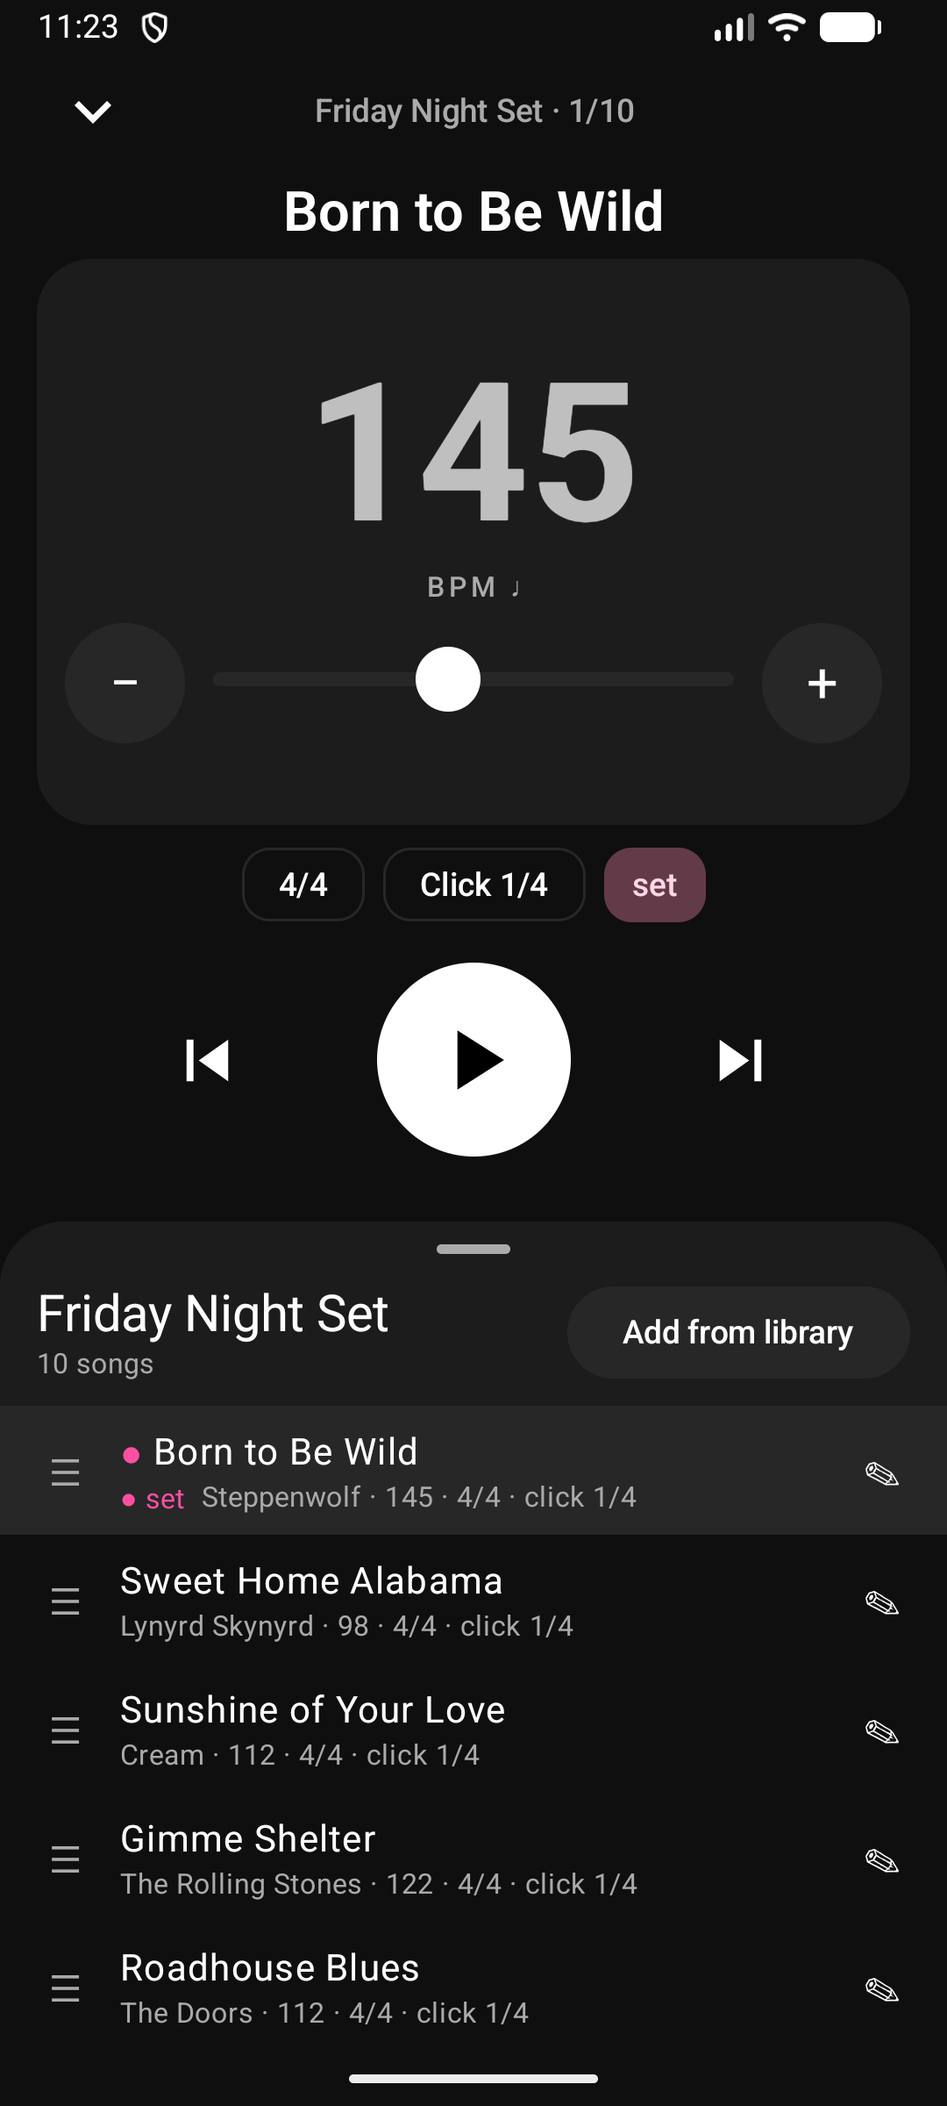
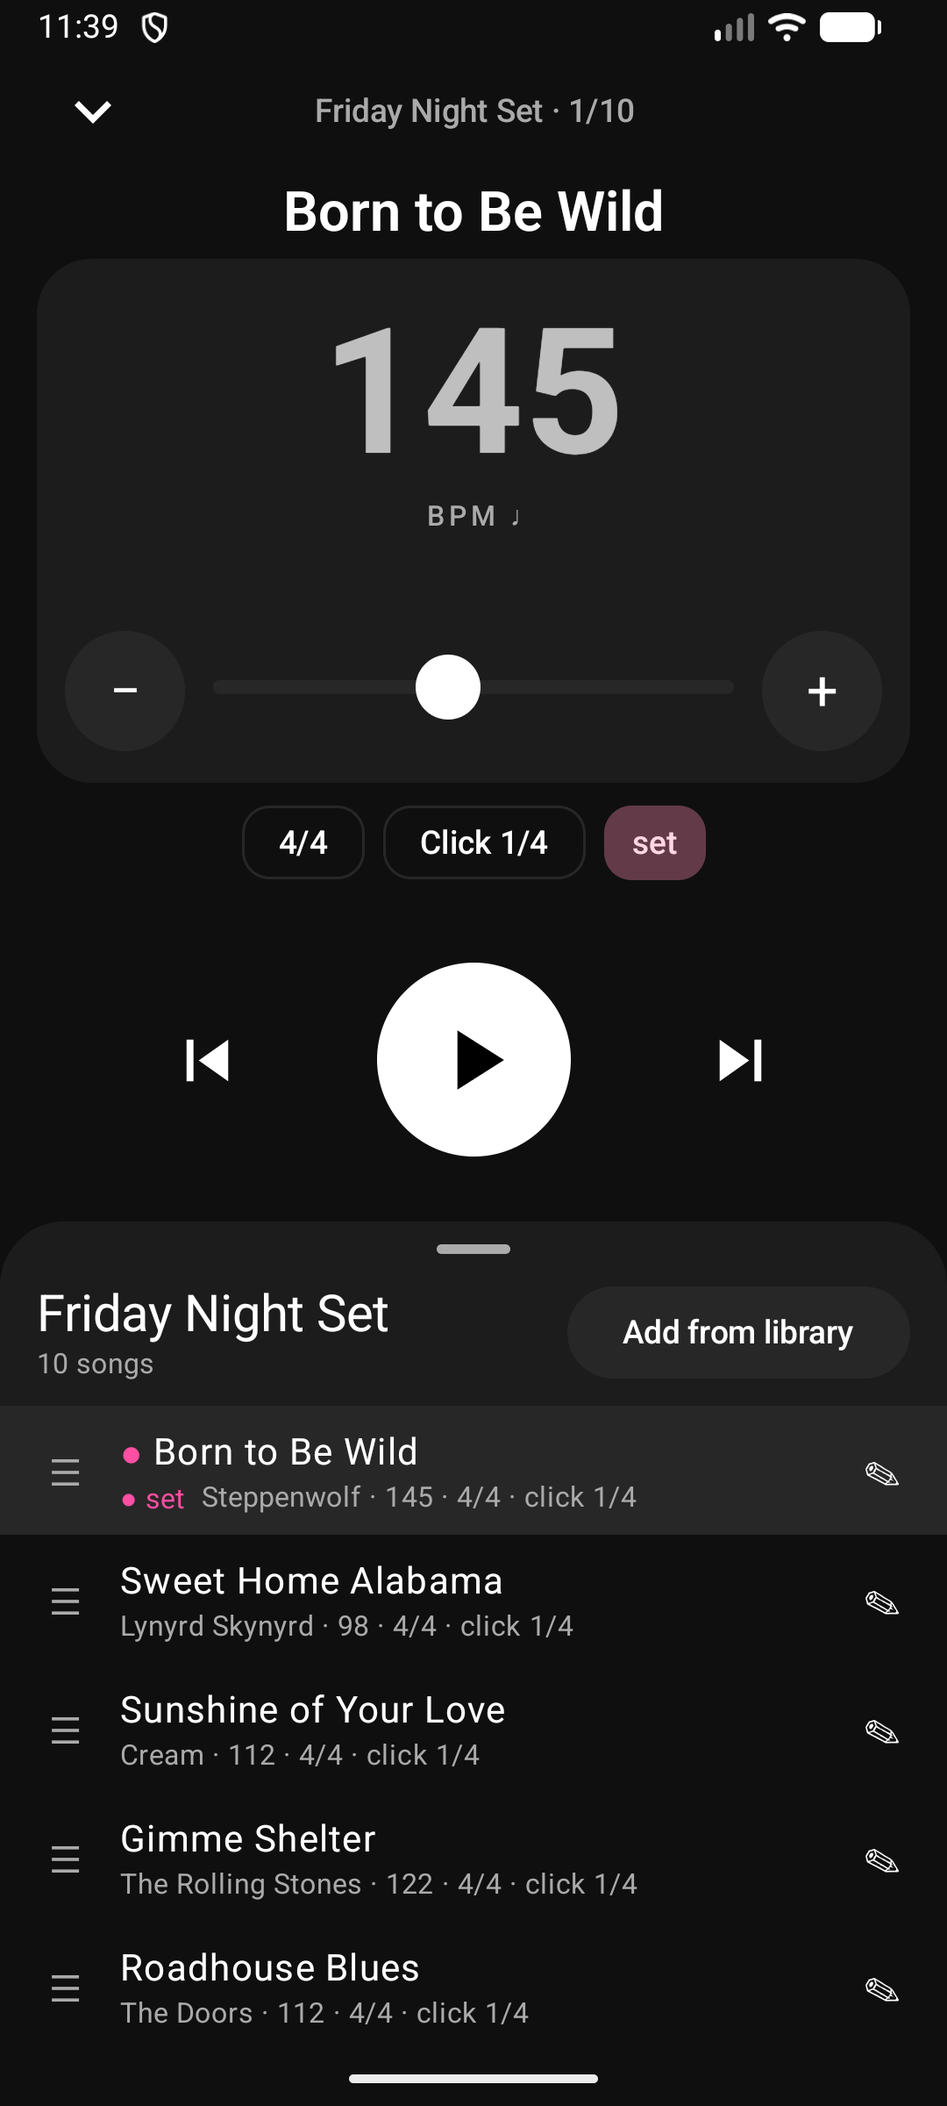
fix(player): never grow the tempo card while the queue opens
The compact layout used to flip at the halfway point, which freed space just as
the sheet was taking it, so the tempo card briefly expanded mid-drag. Everything
is now driven continuously by the sheet position: the tempo card is capped at its
natural size and only shrinks when there is less room, the paddings shrink with
the drag, and the artist and notes slide up behind the title during the first
half of the movement.

diff --git a/app/src/main/java/me/jhot/jtmpo/ui/player/PlayerScreen.kt b/app/src/main/java/me/jhot/jtmpo/ui/player/PlayerScreen.kt
@@ -21,11 +21,9 @@ import androidx.compose.foundation.rememberScrollState
 import androidx.compose.foundation.shape.CircleShape
 import androidx.compose.foundation.verticalScroll
 import androidx.activity.compose.BackHandler
-import androidx.compose.animation.core.animateDpAsState
 import androidx.compose.foundation.layout.BoxWithConstraints
 import androidx.compose.ui.draw.clipToBounds
 import androidx.compose.foundation.lazy.rememberLazyListState
-import androidx.compose.animation.AnimatedVisibility
 import androidx.compose.foundation.ExperimentalFoundationApi
 import androidx.compose.foundation.gestures.AnchoredDraggableDefaults
 import androidx.compose.foundation.gestures.AnchoredDraggableState
@@ -40,6 +38,10 @@ import androidx.compose.ui.input.nestedscroll.NestedScrollSource
 import androidx.compose.ui.input.nestedscroll.nestedScroll
 import androidx.compose.ui.layout.layout
 import androidx.compose.ui.unit.Constraints
+import androidx.compose.ui.unit.Dp
+import androidx.compose.ui.unit.lerp
+import androidx.compose.ui.unit.offset
+import me.jhot.jtmpo.ui.components.TempoCardMinHeight
 import androidx.compose.ui.unit.IntOffset
 import androidx.compose.ui.unit.Velocity
 import kotlin.math.roundToInt
@@ -127,8 +129,6 @@ private fun PlayerContent(
     val headerDp = if (headerPx > 0) with(density) { headerPx.toDp() } else 72.dp
     val rowDp = if (rowPx > 0) with(density) { rowPx.toDp() } else 56.dp
     val peek = queuePeekHeight(QueueHandleHeight, headerDp, rowDp, entries.size)
-    // True from the moment a drag or tap is heading for half or full: the player compacts while the sheet opens.
-    val queueShown = sheet.targetValue != QueueStop.Collapsed
     BackHandler(enabled = sheet.currentValue != QueueStop.Collapsed) { scope.launch { sheet.animateTo(QueueStop.Collapsed) } }
     // At the half stop the playing song must be on screen. Keyed on the settled stop and the current entry only, so
     // reordering or editing the list does not undo the user's own scrolling, and only scrolls when it is out of view.
@@ -241,7 +241,7 @@ private fun PlayerContent(
                         Modifier.fillMaxWidth().verticalScroll(rememberScrollState()).heightIn(min = viewportHeight),
                         horizontalAlignment = Alignment.CenterHorizontally,
                     ) {
-                        Header(ui, onBack, compact = queueShown)
+                        Header(ui, onBack, progress = ::openProgress)
                         if (!ui.hasSong) {
                             Text(
                                 "Nothing loaded. Open a setlist and tap a song.",
@@ -250,12 +250,12 @@ private fun PlayerContent(
                                 modifier = Modifier.padding(top = 48.dp),
                             )
                         } else {
-                            SongInfo(ui, compact = queueShown)
-                            // With the queue open the card takes whatever height the other pieces leave, so there is no
-                            // empty gap above the transport row.
+                            SongInfo(ui, progress = ::openProgress)
+                            // The card is at most its natural size and takes whatever the other pieces leave when that
+                            // is less, so it only ever shrinks as the sheet opens (never grows). The floor keeps it from
+                            // collapsing when everything else overflows and the player scrolls.
                             TempoCard(
-                                modifier = if (queueShown) Modifier.weight(1f) else Modifier,
-                                compact = queueShown,
+                                modifier = Modifier.weight(1f, fill = false).heightIn(min = TempoCardMinHeight),
                                 tempo = ui.tempo,
                                 unitLabel = ui.tempoUnit,
                                 pulses = pulses,
@@ -263,7 +263,7 @@ private fun PlayerContent(
                             )
                             Chips(
                                 ui,
-                                compact = queueShown,
+                                progress = ::openProgress,
                                 onEdit = { if (editUi?.loaded == true) chipEditing = editVm },
                             )
                             if (ui.unsaved && editVm != null) {
@@ -282,7 +282,7 @@ private fun PlayerContent(
                     }
                 }
                 // Outside the scroll area so it sits right above the sheet on tall screens.
-                if (ui.hasSong) Transport(ui, vm, compact = queueShown)
+                if (ui.hasSong) Transport(ui, vm, progress = ::openProgress)
             }
         }
 
@@ -358,10 +358,26 @@ private fun PlayerContent(
     }
 }
 
+/** The artist and notes finish sliding away during the first part of the sheet's movement. */
+private fun slideProgress(progress: Float): Float = (progress / 0.5f).coerceAtMost(1f)
+
+/** Vertical padding that moves from [from] to [to] with [progress]; read at layout time, so a drag never recomposes. */
+private fun Modifier.verticalPaddingLerp(from: Dp, to: Dp, progress: () -> Float): Modifier = layout { measurable, constraints ->
+    val pad = lerp(from, to, progress()).roundToPx()
+    val placeable = measurable.measure(constraints.offset(vertical = -2 * pad))
+    layout(placeable.width, placeable.height + 2 * pad) { placeable.place(0, pad) }
+}
+
+/** A fixed height that moves from [from] to [to] with [progress]. */
+private fun Modifier.heightLerp(from: Dp, to: Dp, progress: () -> Float): Modifier = layout { measurable, constraints ->
+    val h = lerp(from, to, progress()).roundToPx()
+    val placeable = measurable.measure(Constraints(constraints.minWidth, constraints.maxWidth, h, h))
+    layout(placeable.width, h) { placeable.place(0, 0) }
+}
+
 @Composable
-private fun Header(ui: PlayerUi, onBack: () -> Unit, compact: Boolean) {
-    val minHeight by animateDpAsState(if (compact) 48.dp else 64.dp, label = "headerHeight")
-    Row(Modifier.fillMaxWidth().heightIn(min = minHeight), verticalAlignment = Alignment.CenterVertically) {
+private fun Header(ui: PlayerUi, onBack: () -> Unit, progress: () -> Float) {
+    Row(Modifier.fillMaxWidth().heightLerp(64.dp, 48.dp, progress), verticalAlignment = Alignment.CenterVertically) {
         val closeLabel = stringResource(R.string.close_player)
         IconButton(onBack, Modifier.semantics { contentDescription = closeLabel }) { Icon(painterResource(R.drawable.ic_chevron_down), null, Modifier.size(32.dp)) }
         Text(
@@ -379,31 +395,45 @@ private fun Header(ui: PlayerUi, onBack: () -> Unit, compact: Boolean) {
 }
 
 @Composable
-private fun SongInfo(ui: PlayerUi, compact: Boolean) {
-    val verticalPadding by animateDpAsState(if (compact) 4.dp else 16.dp, label = "songInfoPadding")
-    Column(Modifier.padding(vertical = verticalPadding).fillMaxWidth(), horizontalAlignment = Alignment.CenterHorizontally) {
+private fun SongInfo(ui: PlayerUi, progress: () -> Float) {
+    Column(
+        Modifier.fillMaxWidth().verticalPaddingLerp(16.dp, 4.dp, progress),
+        horizontalAlignment = Alignment.CenterHorizontally,
+    ) {
         Text(
             ui.title,
+            Modifier.background(MaterialTheme.colorScheme.background),
             style = MaterialTheme.typography.headlineSmall,
             fontWeight = FontWeight.SemiBold,
             textAlign = TextAlign.Center,
             maxLines = 2,
             overflow = TextOverflow.Ellipsis,
         )
-        // Artist and notes drop out while the setlist is open, to leave room for the controls.
-        AnimatedVisibility(!compact) {
-            Column(horizontalAlignment = Alignment.CenterHorizontally) {
-                ui.artist?.let { Text(it, color = TextSecondary, textAlign = TextAlign.Center, maxLines = 1, overflow = TextOverflow.Ellipsis) }
-                ui.notes?.let {
-                    Text(
-                        it,
-                        style = MaterialTheme.typography.bodyMedium,
-                        color = TextSecondary,
-                        textAlign = TextAlign.Center,
-                        maxLines = 3,
-                        overflow = TextOverflow.Ellipsis,
-                        modifier = Modifier.padding(top = 6.dp),
-                    )
+        // Artist and notes slide up behind the title and fade out as the setlist opens, taking their height with them.
+        if (ui.artist != null || ui.notes != null) {
+            Box(
+                Modifier.fillMaxWidth().clipToBounds()
+                    .layout { measurable, constraints ->
+                        val placeable = measurable.measure(constraints.copy(minHeight = 0, maxHeight = Constraints.Infinity))
+                        val p = slideProgress(progress())
+                        val h = (placeable.height * (1f - p)).roundToInt()
+                        layout(placeable.width, h) { placeable.place(0, h - placeable.height) }
+                    }
+                    .graphicsLayer { alpha = 1f - slideProgress(progress()) },
+            ) {
+                Column(Modifier.fillMaxWidth(), horizontalAlignment = Alignment.CenterHorizontally) {
+                    ui.artist?.let { Text(it, color = TextSecondary, textAlign = TextAlign.Center, maxLines = 1, overflow = TextOverflow.Ellipsis) }
+                    ui.notes?.let {
+                        Text(
+                            it,
+                            style = MaterialTheme.typography.bodyMedium,
+                            color = TextSecondary,
+                            textAlign = TextAlign.Center,
+                            maxLines = 3,
+                            overflow = TextOverflow.Ellipsis,
+                            modifier = Modifier.padding(top = 6.dp),
+                        )
+                    }
                 }
             }
         }
@@ -411,9 +441,12 @@ private fun SongInfo(ui: PlayerUi, compact: Boolean) {
 }
 
 @Composable
-private fun Chips(ui: PlayerUi, compact: Boolean, onEdit: () -> Unit) {
-    val verticalPadding by animateDpAsState(if (compact) 2.dp else 14.dp, label = "chipsPadding")
-    Row(Modifier.padding(vertical = verticalPadding), horizontalArrangement = Arrangement.spacedBy(8.dp), verticalAlignment = Alignment.CenterVertically) {
+private fun Chips(ui: PlayerUi, progress: () -> Float, onEdit: () -> Unit) {
+    Row(
+        Modifier.verticalPaddingLerp(14.dp, 2.dp, progress),
+        horizontalArrangement = Arrangement.spacedBy(8.dp),
+        verticalAlignment = Alignment.CenterVertically,
+    ) {
         val sigLabel = stringResource(R.string.edit_time_signature, ui.timeSignature)
         AssistChip(onClick = onEdit, label = { Text(ui.timeSignature) }, modifier = Modifier.semantics { contentDescription = sigLabel })
         val patLabel = stringResource(R.string.edit_click_pattern, ui.patternLabel)
@@ -453,10 +486,9 @@ private fun UnsavedBar(enabled: Boolean, onSaveSetlist: () -> Unit, onSaveLibrar
 }
 
 @Composable
-private fun Transport(ui: PlayerUi, vm: PlayerViewModel, compact: Boolean) {
-    val verticalPadding by animateDpAsState(if (compact) 8.dp else 16.dp, label = "transportPadding")
+private fun Transport(ui: PlayerUi, vm: PlayerViewModel, progress: () -> Float) {
     Row(
-        Modifier.fillMaxWidth().widthIn(max = 480.dp).padding(vertical = verticalPadding),
+        Modifier.fillMaxWidth().widthIn(max = 480.dp).verticalPaddingLerp(16.dp, 8.dp, progress),
         horizontalArrangement = Arrangement.SpaceEvenly,
         verticalAlignment = Alignment.CenterVertically,
     ) {

diff --git a/app/src/main/java/me/jhot/jtmpo/ui/components/TempoCard.kt b/app/src/main/java/me/jhot/jtmpo/ui/components/TempoCard.kt
@@ -1,12 +1,8 @@
 package me.jhot.jtmpo.ui.components
 
 import androidx.compose.animation.core.Animatable
-import androidx.compose.animation.core.animateDpAsState
-import androidx.compose.animation.core.animateFloatAsState
 import androidx.compose.animation.core.tween
-import androidx.compose.foundation.layout.Arrangement
 import androidx.compose.foundation.layout.BoxWithConstraints
-import androidx.compose.foundation.layout.fillMaxHeight
 import androidx.compose.foundation.layout.Column
 import androidx.compose.foundation.layout.ColumnScope
 import androidx.compose.foundation.layout.fillMaxWidth
@@ -45,7 +41,6 @@ fun TempoCard(
     pulses: SharedFlow<Unit>,
     onTempo: (Int) -> Unit,
     modifier: Modifier = Modifier,
-    compact: Boolean = false,
     extra: @Composable ColumnScope.() -> Unit = {},
 ) {
     val pulse = remember { Animatable(0f) }
@@ -56,28 +51,22 @@ fun TempoCard(
             pulse.animateTo(0f, tween(durationMillis = 160))
         }
     }
-    // Compact is the player with its setlist open. The caller may give the card all the height that is left (a
-    // weighted modifier); then the number grows with that room, up to its full size, and the content is centred,
-    // so the card never leaves an empty gap. Without bounded height it is simply small.
-    val verticalPadding by animateDpAsState(if (compact) 6.dp else 16.dp, label = "tempoPadding")
+    // The card is as tall as it naturally is, and only gets smaller when the height it is offered is less (the player
+    // with its setlist open): the number, the padding and the space for the drag bubble all shrink together with the
+    // offered height, and never grow past their natural size. Without a bounded height (Practice) it is natural.
     Surface(
         modifier.fillMaxWidth().widthIn(max = 480.dp),
         color = SurfaceCard,
         shape = MaterialTheme.shapes.large,
     ) {
         BoxWithConstraints(propagateMinConstraints = true) {
-            val bounded = constraints.hasBoundedHeight
-            val targetSize = when {
-                !compact -> 84f
-                bounded -> (48f + (maxHeight - CompactCardContentHeight).value * 0.5f).coerceIn(48f, 84f)
-                else -> 48f
-            }
-            val numberSize by animateFloatAsState(targetSize, label = "tempoSize")
+            val t = if (constraints.hasBoundedHeight) {
+                ((maxHeight - TempoCardMinHeight) / (TempoCardNaturalHeight - TempoCardMinHeight)).coerceIn(0f, 1f)
+            } else 1f
+            val numberSize = 48f + 36f * t
             Column(
-                Modifier.fillMaxWidth().then(if (bounded) Modifier.fillMaxHeight() else Modifier)
-                    .padding(horizontal = 12.dp, vertical = verticalPadding),
+                Modifier.fillMaxWidth().padding(horizontal = 12.dp, vertical = 6.dp + 10.dp * t),
                 horizontalAlignment = Alignment.CenterHorizontally,
-                verticalArrangement = Arrangement.Center,
             ) {
                 Text(
                     "$tempo",
@@ -99,11 +88,12 @@ fun TempoCard(
                     letterSpacing = 2.sp,
                 )
                 extra()
-                TempoDragControl(tempo, onTempo, Modifier.padding(top = 4.dp), compact = compact)
+                TempoDragControl(tempo, onTempo, Modifier.padding(top = 4.dp), bubbleSpace = TempoBubbleSpace * t)
             }
         }
     }
 }
 
-/** Roughly what the compact card needs with its smallest number; anything above this lets the number grow. */
-private val CompactCardContentHeight = 150.dp
+/** The card's height at its smallest (smallest number, no space reserved for the bubble) and at its natural size. */
+val TempoCardMinHeight = 145.dp
+val TempoCardNaturalHeight = 274.dp

diff --git a/app/src/main/java/me/jhot/jtmpo/ui/components/TempoDragControl.kt b/app/src/main/java/me/jhot/jtmpo/ui/components/TempoDragControl.kt
@@ -1,6 +1,5 @@
 package me.jhot.jtmpo.ui.components
 
-import androidx.compose.animation.core.animateDpAsState
 import androidx.compose.foundation.background
 import androidx.compose.foundation.gestures.detectHorizontalDragGestures
 import androidx.compose.foundation.layout.Arrangement
@@ -34,6 +33,7 @@ import androidx.compose.ui.platform.LocalDensity
 import androidx.compose.ui.platform.LocalHapticFeedback
 import androidx.compose.ui.semantics.contentDescription
 import androidx.compose.ui.semantics.semantics
+import androidx.compose.ui.unit.Dp
 import androidx.compose.ui.unit.dp
 import me.jhot.jtmpo.domain.TempoLimits
 import me.jhot.jtmpo.ui.theme.Accent
@@ -42,12 +42,15 @@ import me.jhot.jtmpo.ui.theme.SurfaceRaised
 private val ThumbSize = 28.dp
 private val BubbleHeight = 44.dp
 
+/** The space the drag control normally reserves above its track for the value bubble. */
+val TempoBubbleSpace = BubbleHeight
+
 /**
  * - / + buttons around a drag track. The value bubble floats above the thumb so a finger on the
  * thumb never hides it. Out-of-range results are clamped here; [onTempo] only sees valid values.
  */
 @Composable
-fun TempoDragControl(tempo: Int, onTempo: (Int) -> Unit, modifier: Modifier = Modifier, compact: Boolean = false) {
+fun TempoDragControl(tempo: Int, onTempo: (Int) -> Unit, modifier: Modifier = Modifier, bubbleSpace: Dp = TempoBubbleSpace) {
     val haptic = LocalHapticFeedback.current
     val currentTempo by rememberUpdatedState(tempo)
     val currentOnTempo by rememberUpdatedState(onTempo)
@@ -72,19 +75,18 @@ fun TempoDragControl(tempo: Int, onTempo: (Int) -> Unit, modifier: Modifier = Mo
             val thumbX = with(density) { ((trackWidthPx - thumbPx) * fraction).toDp() }
 
             Column {
-                // Reserved height so the bubble never shifts the layout or clips. Compact reserves none: the bubble
-                // then floats over the space above the track (the tempo label) while it is dragged.
-                val reserved by animateDpAsState(if (compact) 0.dp else BubbleHeight, label = "bubbleSpace")
-                Box(Modifier.fillMaxWidth().height(reserved)) {
+                // Space reserved above the track so the bubble never shifts the layout or clips. A caller short of room
+                // passes less (down to none): the bubble then floats over whatever is above the track while dragged.
+                Box(Modifier.fillMaxWidth().height(bubbleSpace)) {
                     if (dragging) {
                         val bubbleWidth = 64.dp
                         val bubbleX = (thumbX + ThumbSize / 2 - bubbleWidth / 2)
                             .coerceIn(0.dp, trackWidth - bubbleWidth)
                         Box(
                             Modifier
-                                .align(if (compact) Alignment.BottomStart else Alignment.TopStart)
-                                // requiredHeight centres the bubble on the empty compact box; lift it clear of the track.
-                                .offset(x = bubbleX, y = if (compact) -(BubbleHeight - 6.dp) / 2 else 0.dp)
+                                .align(Alignment.BottomStart)
+                                // requiredHeight centres the bubble on the (possibly empty) box; sit it just above the track.
+                                .offset(x = bubbleX, y = (bubbleSpace - (BubbleHeight - 6.dp)) / 2 - 3.dp * (bubbleSpace / BubbleHeight))
                                 .width(bubbleWidth)
                                 .requiredHeight(BubbleHeight - 6.dp)
                                 .background(Accent, RoundedCornerShape(12.dp)),

diff --git a/docs/acceptance.md b/docs/acceptance.md
@@ -113,8 +113,8 @@ Use the demo library (Friday Night Set, 10 songs) and try each item at the defau
 
 | Done | Item | Steps | Expected | Result |
 | --- | --- | --- | --- | --- |
-| [ ] | H1 Half stop | In the player tap the "Up next" bar. | The sheet opens to exactly five song rows (no half row, no gap). The player shrinks above it: artist and notes hide, the tempo card grows to fill the free height (no empty gap above previous/play/next), previous/play/next stay visible. | |
-| [ ] | H1b Follows the finger | Drag the "Up next" bar up slowly, then back down; do the same from half with the handle or header. | The sheet and the player's layout follow the finger. A small movement (a thumb-width or less) settles back where it was; about 100 dp opens or closes it; a quick flick goes to the next stop. | |
+| [ ] | H1 Half stop | In the player tap the "Up next" bar. | The sheet opens to exactly five song rows (no half row, no gap). The player shrinks above it: artist and notes hide, the tempo card shrinks only as much as needed, previous/play/next stay visible. | |
+| [ ] | H1b Follows the finger | Drag the "Up next" bar up slowly, then back down; do the same from half with the handle or header. | The sheet and the player's layout follow the finger; the tempo card never grows while you drag (it only shrinks once there is no room left), and the artist and notes slide up behind the title. A small movement (a thumb-width or less) settles back where it was; about 100 dp opens or closes it; a quick flick goes to the next stop. | |
 | [ ] | H2 Player stays usable | At half, tap play/pause, previous/next, the -/+ buttons and drag the tempo track. | All of them work with the sheet still open; the drag bubble floats over the BPM label. | |
 | [ ] | H3 Scroll at half | At half, swipe the song list up and down. | The list scrolls; the sheet stays at half. | |
 | [ ] | H4 Playing song visible | Play song 8 (or press next to get there), then open the sheet. Press previous and next. | Past the fifth row the playing song is the last visible row; previous/next keep it on screen; tapping a row that is already visible does not move the list. | |
